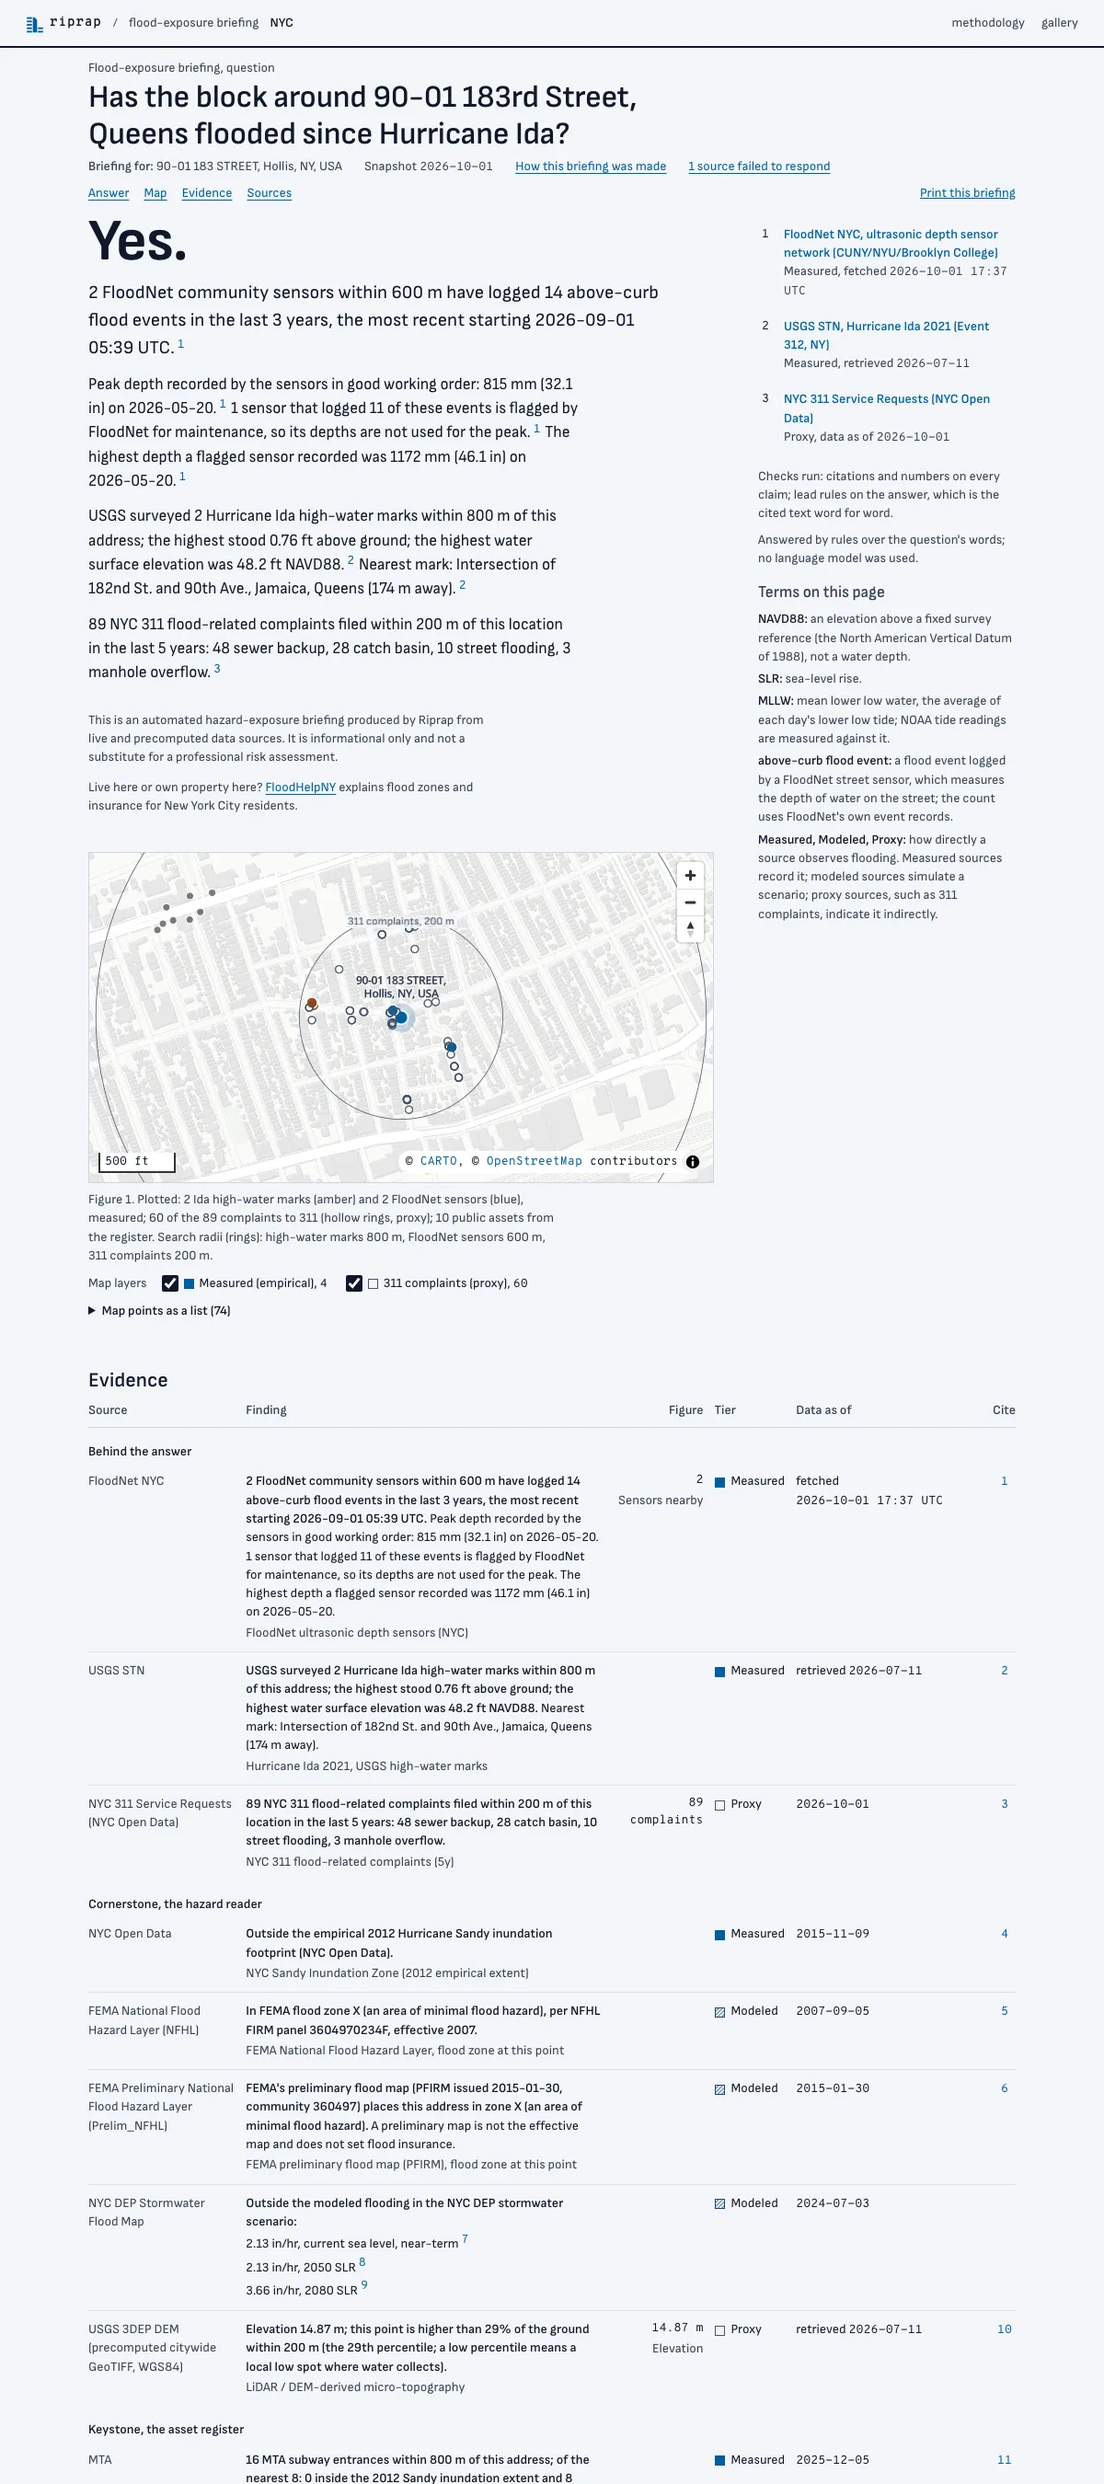
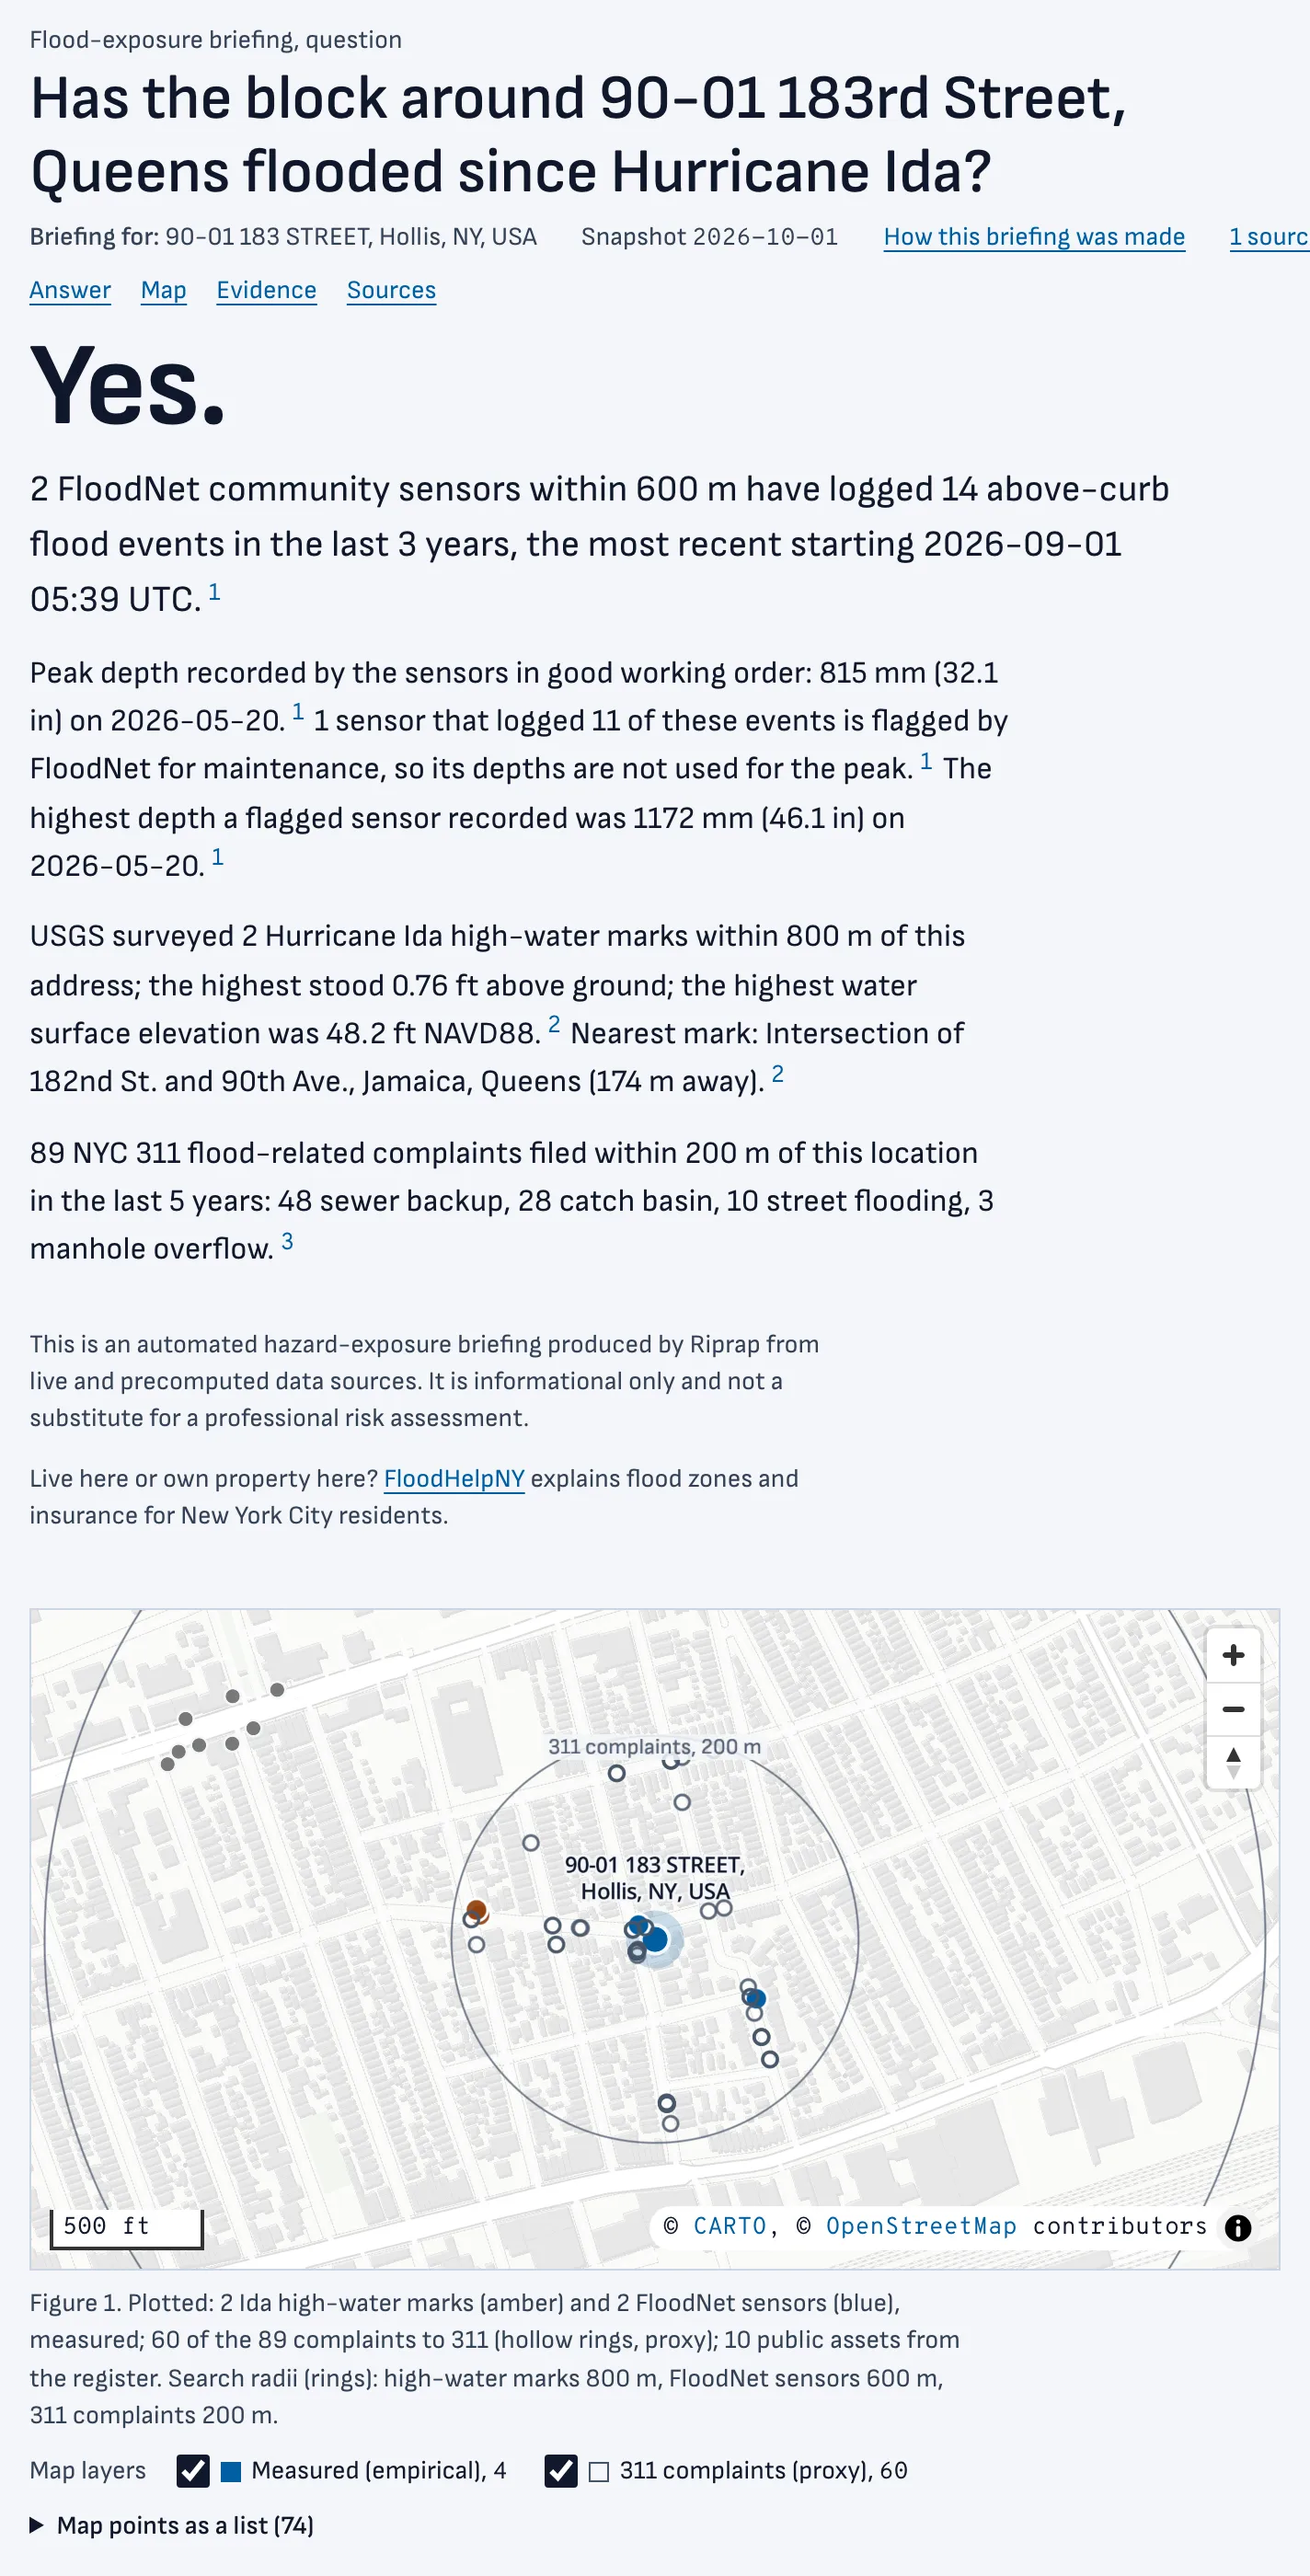
Crop the hero preview to the answer column
The preview showed the whole 1200px briefing at about 38 percent, so
its sentences were too small to read and the map drew the eye. The
capture now clips the answer column (question, answer and map, without
the side rail or the wide evidence table) and writes it at 2x and 1x,
so the text is legible beside the headline.

The image also drops fetchpriority="high". On phones it sits below the
actions, and the hint let it jump ahead of the fonts. Lazy loading was
tried and made the phone LCP worse, so it is not used.

diff --git a/web/sveltekit/tests/unit/components/Landing.test.ts b/web/sveltekit/tests/unit/components/Landing.test.ts
@@ -43,15 +43,16 @@ describe('Landing smoke', () => {
     expect(form.compareDocumentPosition(figure) & Node.DOCUMENT_POSITION_FOLLOWING).toBeTruthy();
     // The question is a paragraph, not a heading.
     expect(figure.querySelector('h1, h2, h3')).toBeNull();
-    // The window is one link to the briefing; its image loads first, at a fixed size.
+    // The window is one link to the briefing; its image has a fixed size and no fetch priority,
+    // so on phones, where it sits below the actions, it does not jump ahead of the fonts.
     const win = figure.querySelector('a.window')!;
     expect(win.getAttribute('href')).toBe('/gallery/hollis-since-ida/');
     const img = win.querySelector('img')!;
     expect(img.getAttribute('src')).toBe('/landing/hero-briefing.webp');
-    expect(img.getAttribute('srcset')).toBe('/landing/hero-briefing-720.webp 720w, /landing/hero-briefing.webp 1200w');
+    expect(img.getAttribute('srcset')).toBe('/landing/hero-briefing-712.webp 712w, /landing/hero-briefing.webp 1424w');
     expect(img.getAttribute('alt')).toMatch(/^The Riprap briefing for this question: the answer Yes\./);
-    expect([img.getAttribute('width'), img.getAttribute('height')]).toEqual(['1200', '2700']);
-    expect(img.getAttribute('fetchpriority')).toBe('high');
+    expect([img.getAttribute('width'), img.getAttribute('height')]).toEqual(['712', '1400']);
+    expect(img.hasAttribute('fetchpriority')).toBe(false);
     expect(img.getAttribute('decoding')).toBe('async');
     expect(text(win.querySelector('.window-bar')!)).toBe('riprap / gallery / hollis-since-ida');
     // The caption is real text: the question, the lead word and the link.

diff --git a/web/sveltekit/src/lib/components/landing/LandSpecimen.svelte b/web/sveltekit/src/lib/components/landing/LandSpecimen.svelte
@@ -21,17 +21,15 @@
   <a class="window" {href}>
     <span class="window-bar" aria-hidden="true">riprap / gallery / {specimen.slug}</span>
     <span class="window-view">
-      <!-- The size matches CROP_HEIGHT in scripts/capture-hero-preview.mjs.
-           The window spans the frame below 1100px and is about 455px wide above. -->
+      <!-- The size matches CLIP in scripts/capture-hero-preview.mjs (the 1x file). The window spans the frame below 1100px and is about 455px wide above. -->
       <img
         src={asset('/landing/hero-briefing.webp')}
-        srcset="{asset('/landing/hero-briefing-720.webp')} 720w, {asset('/landing/hero-briefing.webp')} 1200w"
+        srcset="{asset('/landing/hero-briefing-712.webp')} 712w, {asset('/landing/hero-briefing.webp')} 1424w"
         sizes="(max-width: 640px) calc(100vw - 32px), (max-width: 1099px) calc(100vw - 64px), 455px"
-        width="1200"
-        height="2700"
-        fetchpriority="high"
+        width="712"
+        height="1400"
         decoding="async"
-        alt="The Riprap briefing for this question: the answer Yes. over its cited sentences on FloodNet sensor events, Hurricane Ida high-water marks and 311 flood complaints, the three sources beside it, a map of those points around the address, and the start of the evidence table."
+        alt="The Riprap briefing for this question: the answer Yes. over its cited sentences on FloodNet sensor events, Hurricane Ida high-water marks and 311 flood complaints, then a map of those points around the address."
       />
     </span>
   </a>
